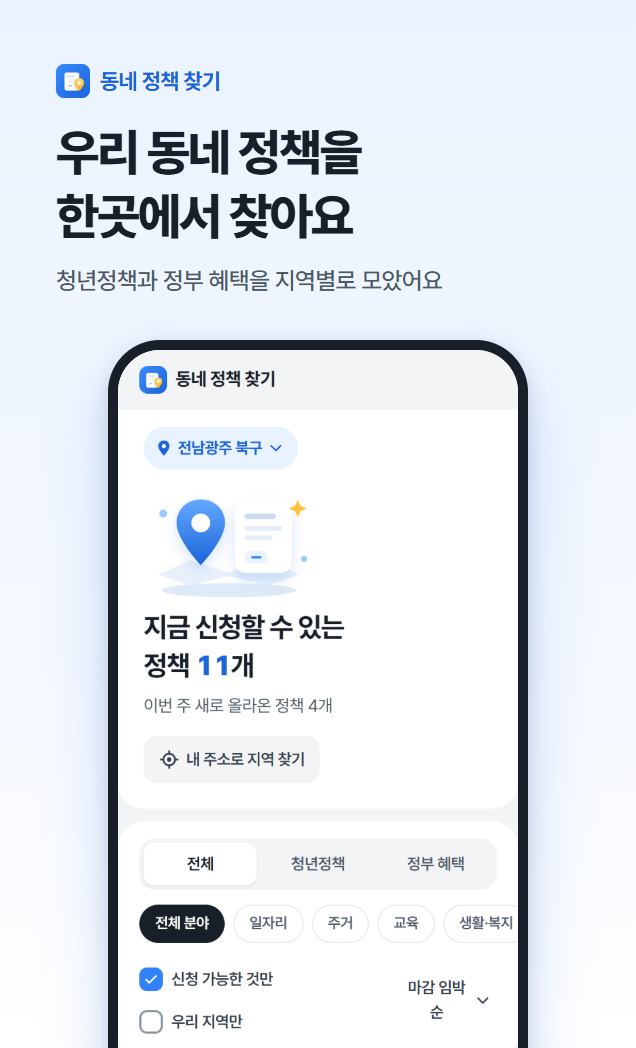
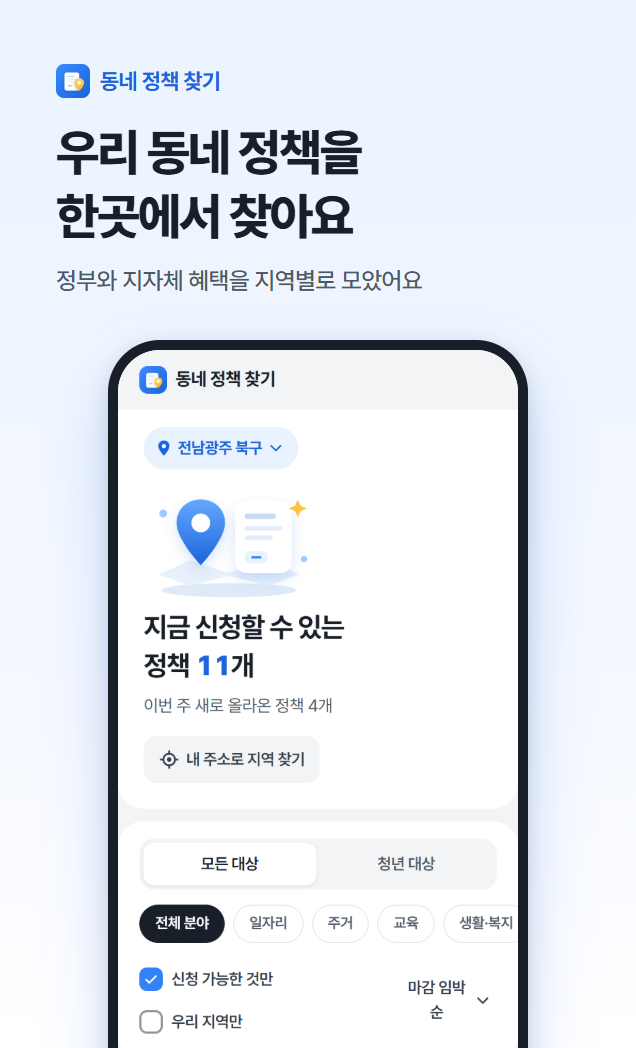
[Docs] 청년 대상 필터 반영한 README와 콘솔 스크린샷 갱신

diff --git a/README.md b/README.md
@@ -1,6 +1,8 @@
 # policy · 동네 정책 찾기
 
-고른 지역(시·도 → 시·군·구)에서 지금 신청할 수 있는 청년정책과 정부 혜택을 모아 보여 주는 앱인토스 미니앱이에요. 마감 임박순·최근 등록순·조회 많은순·이름순으로 정렬하고, 종류·분야·신청 가능 여부로 거를 수 있어요.
+고른 지역(시·도 → 시·군·구)에서 지금 신청할 수 있는 정부·지자체 혜택을 모아 보여 주는 앱인토스 미니앱이에요. 마감 임박순·최근 등록순·조회 많은순·이름순으로 정렬하고, 대상(모든 대상/청년 대상)·분야·신청 가능 여부·우리 지역만으로 거를 수 있어요.
+
+지금 데이터는 정부24 공공서비스(혜택) API예요. "청년 대상"은 제목·대상·설명에 "청년"이 있는 혜택이에요(약 500건). 온통청년 청년정책 수집기는 만들어 두었지만 공공데이터포털 운영 승인이 나기 전까지는 키가 거부돼서 건너뛰어요. 승인되면 키만 넣으면 함께 모여요.
 
 <img src="docs/screenshots/mobile-home.png" width="220" alt="홈" /> <img src="docs/screenshots/mobile-region.png" width="220" alt="지역 고르기" /> <img src="docs/screenshots/mobile-detail.png" width="220" alt="정책 상세" />
 
@@ -69,7 +71,7 @@ npx ait deploy -m "<대표 커밋 메시지>"
 
 ## 배포 (BlueCL)
 
-현재 서버 릴리스 `policy-20261029005258`(2026-10-29 설치), 앱 번들 deploymentId `01a18525-a67a-7773-9e6a-5339ad98aa77`. 정부 혜택 9,933건 수집 중(온통청년은 키 승인 대기).
+현재 서버 릴리스 `policy-20261029010023`(2026-10-29 설치), 앱 번들 deploymentId `01a1852c-b7f2-7c0f-b0ff-c0a0977dcee7`. 정부 혜택 9,933건 수집 중(온통청년은 운영 승인 대기).
 
 `/home/solty/dev/policy/{releases,current,node,data,.env}`, API 포트 `18826`, 공개 경로 `https://bluecl.cloud/policy/api/`. Node는 gongmodu와 같은 `node` 링크(v24)를 써요.
 
